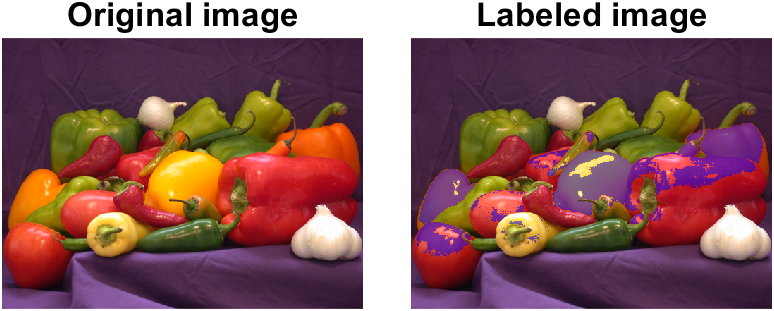
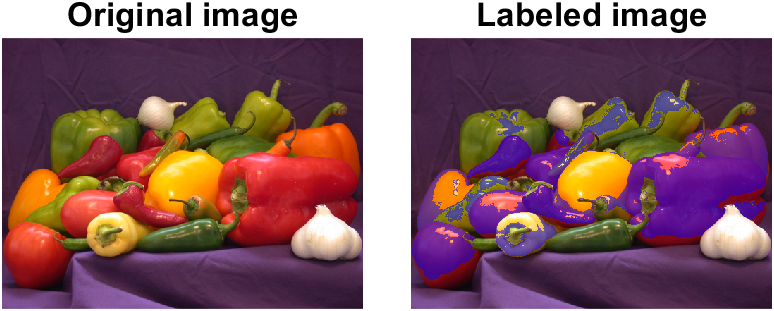
Added interactive program to select free-hand region.

Changed region(s): [[0.5271, 0.2894, 0.9922, 0.8971], [0.8992, 0.4051, 0.9922, 0.463]]

diff --git a/main_interactive.m b/main_interactive.m
@@ -1,0 +1,45 @@
+clear; close all; clc;
+
+%$ Inputs
+input.colorspace = 'hsv'; % 'rgb' | 'hsv' |'lab'
+input.tolerance = 70;
+input.Kmeans = false; % If true uses K-means clustering. 
+                     % Else, uses input.RGBTriplet
+input.KClusters = 3; % K clusters
+input.ShowPlots = true; % Show plots
+
+%% Read image
+Ioriginal = imread('images/peppers.png');
+
+% Get the pixel labels
+input.filename = 'peppers.png';
+
+%% Interactive window
+figure('Name','Select Region','NumberTitle','off');
+imshow(Ioriginal);
+title('Draw a region with the mouse, double‐click to finish');
+
+% Draw a freehand ROI ---
+hFH = drawfreehand('Color','r','LineWidth',1.5);
+
+% Wait until the ROI is completed (double‐click)
+position = hFH.Position;
+mask = hFH.createMask(); 
+
+% Extract RGB values within the mask
+% Separate channels
+R = Ioriginal(:,:,1);
+G = Ioriginal(:,:,2);
+B = Ioriginal(:,:,3);
+
+% Vector of values inside the ROI
+rVals = double(R(mask));
+gVals = double(G(mask));
+bVals = double(B(mask));
+
+% Compute mean values
+input.RGBTriplet = [mean(rVals), mean(gVals), mean(bVals)]; % RGB value to segment
+ 
+
+%% Process and get the pixel labels
+pixelLabels = colorSegment (input, Ioriginal);
